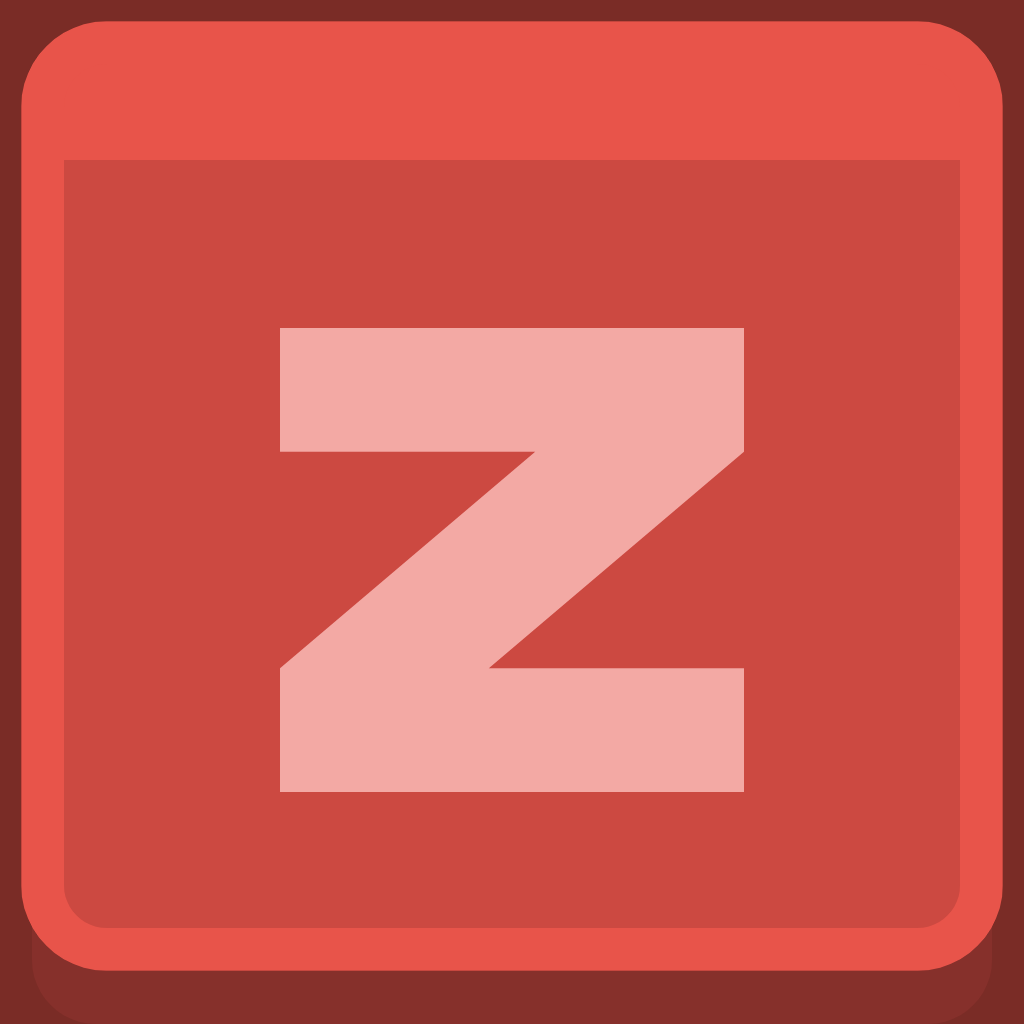
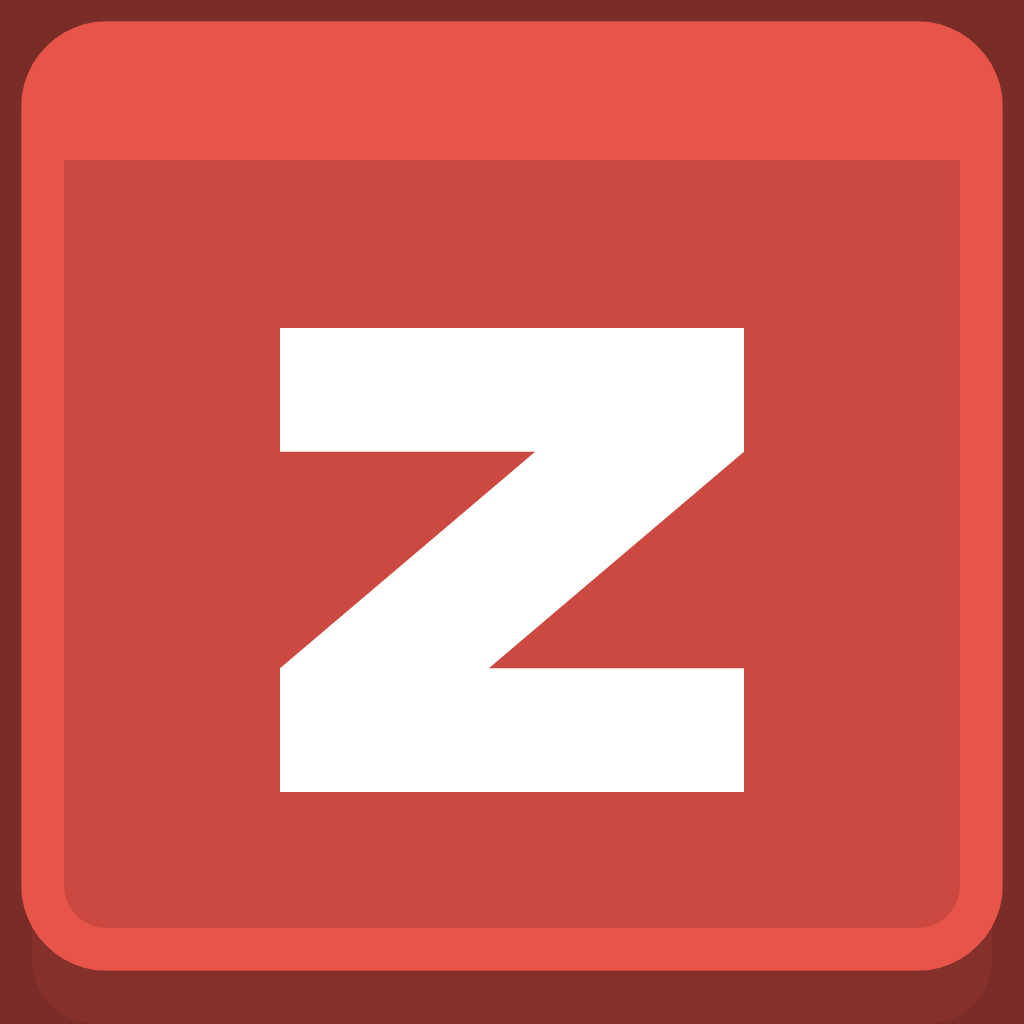
la letra del icono es blanca: la regla de la tinta no aplicaba aqui
Se pidio dos veces y las dos salio de otro color. Al quitarle al icono la
dependencia de la carcasa, la tinta paso a elegirse midiendo entre dos tonos del
zati -bestOn de frag.brighter y frag.darker- y sobre el rojo eso da un rosa
palido.

"La tinta se mide, nunca se elige" es correcto en la app, donde la tinta cae
sobre superficies que la carcasa mueve. En el icono no hay carcasa que mover: es
un dibujo sobre un cuerpo, y de que color va su letra es una decision de marca.

Blanco puro y no ZatiColours::white, que es un token de piel y vale distinto en
cada carcasa: rompería lo unico que este icono promete y que el banco comprueba,
ser el mismo fichero byte a byte en las cuatro. Y escrita una vez, porque la
dibujan el icono y el splash y ademas Main.cpp la imprime para el banco.

21 comprobaciones 0 FALLA, un solo md5 en las cuatro pieles. expo.py 924
corridas, 2283 TOUCH.

Changed region(s): [[0.25, 0.3125, 0.75, 0.7812]]

diff --git a/Source/StoreArt.h b/Source/StoreArt.h
@@ -220,6 +220,31 @@ namespace StoreArt
     //  verdad y no un rectangulo con la forma de uno.
     inline constexpr Estilo kEstiloDeFabrica = Estilo::marcaPad;
 
+    //  LA TINTA DE LA LETRA DEL ICONO: BLANCO, y escrita una sola vez.
+    //
+    //  Se pidio dos veces «la letra en blanco» y las dos salio de otro color,
+    //  porque al quitarle la dependencia de la carcasa la tinta paso a elegirse
+    //  MIDIENDO entre dos tonos del propio zati -`bestOn` de `frag.brighter` y
+    //  `frag.darker`- y sobre el rojo eso da un ROSA PALIDO.
+    //
+    //  La regla que lo motivo -«la tinta se mide, nunca se elige»- es correcta
+    //  en la app, donde la tinta cae sobre superficies que la carcasa mueve.
+    //  Aqui no hay carcasa que mover: el icono es UN dibujo sobre UN cuerpo, y
+    //  de que color va su letra es una decision de marca y no una medida.
+    //  Aplicar la regla donde no toca fue lo que convirtio una instruccion
+    //  clara en tres rondas.
+    //
+    //  Y blanco PURO, no `ZatiColours::white`: ese es un token de piel y vale
+    //  distinto en cada carcasa (fffdf7, f4efe3, ffffff, fffdf7), asi que
+    //  rompería lo unico que este icono promete y que el banco comprueba - ser
+    //  el mismo fichero byte a byte en las cuatro.
+    //
+    //  Una vez y no tres: la dibujan el icono del lanzador y el del splash, y
+    //  ademas `Main.cpp` la imprime para que el banco sepa que pixeles son la
+    //  letra. Si se repitiera, el dia que cambie el banco buscaria el color
+    //  viejo y mediria el rectangulo equivocado.
+    inline juce::Colour tintaDeLaMarca() noexcept { return juce::Colours::white; }
+
     //  DONDE CAE LA MARCA DENTRO DEL ICONO, escrito UNA vez.
     //
     //  Lo usan el dibujo y la mascara con la que el banco sabe que pixeles son
@@ -684,13 +709,8 @@ namespace StoreArt
                                   .translated (recuadro.getCentreX() - lim.getCentreX() * k,
                                                recuadro.getCentreY() - lim.getCentreY() * k));
 
-            //  LA TINTA SE MIDE, PERO NO CONTRA LA PALETA DE LA CARCASA.
-            //  `textOn` elige entre `ink` e `inkLight`, y esos dos son tokens de
-            //  piel: medido, la misma tapa roja sacaba la Z crema en PAPEL,
-            //  NEGRA en GRAFITO, blanca en ACERO y crema en LACA. Los dos
-            //  candidatos salen ahora del propio zati y `bestOn` elige midiendo.
-            g.setColour (ZatiColours::bestOn (cuerpo, frag.brighter (1.0f),
-                                              frag.darker (0.85f)));
+            //  Blanca. Ver `tintaDeLaMarca`.
+            g.setColour (tintaDeLaMarca());
             g.fillPath (t);
 
             //  Y EL FILO, que si es el de la casa tal cual: `bordeDe (frag,
@@ -980,7 +1000,7 @@ namespace StoreArt
         t.applyTransform (juce::AffineTransform::scale (k)
                               .translated (recuadro.getCentreX() - lim.getCentreX() * k,
                                            recuadro.getCentreY() - lim.getCentreY() * k));
-        g.setColour (ZatiColours::bestOn (cuerpo, frag.brighter (1.0f), frag.darker (0.85f)));
+        g.setColour (tintaDeLaMarca());
         g.fillPath (t);
 
         PadArt::borde (g, caja, PadArt::bordeDe (frag, true), true, escala);

diff --git a/Source/Main.cpp b/Source/Main.cpp
@@ -266,14 +266,8 @@ public:
             //  La tinta de la letra de `marcaPad`, para que el banco pueda
             //  buscar sus pixeles en el PNG sin repetir la cuenta del dibujo:
             //  es `bestOn` de dos tonos del zati, y quien la sabe es la app.
-            {
-                const auto fr = Zati::colour (Zati::forPad (0));
-                const auto cu = fr.darker (0.45f).overlaidWith (PadArt::cuerpoDe (fr, true));
-                std::cout << ",\"marca_letra\":\""
-                          << ZatiColours::bestOn (cu, fr.brighter (1.0f),
-                                                  fr.darker (0.85f)).toDisplayString (false)
-                          << "\"";
-            }
+            std::cout << ",\"marca_letra\":\""
+                      << StoreArt::tintaDeLaMarca().toDisplayString (false) << "\"";
             std::cout << ",\"estilo\":" << (int) est
                       << ",\"marca_tapa\":\"" << ZatiColours::accent.toDisplayString (false)
                       << "\",\"marca_cuerpo\":[\"" << ZatiColours::chassisTop.toDisplayString (false)
